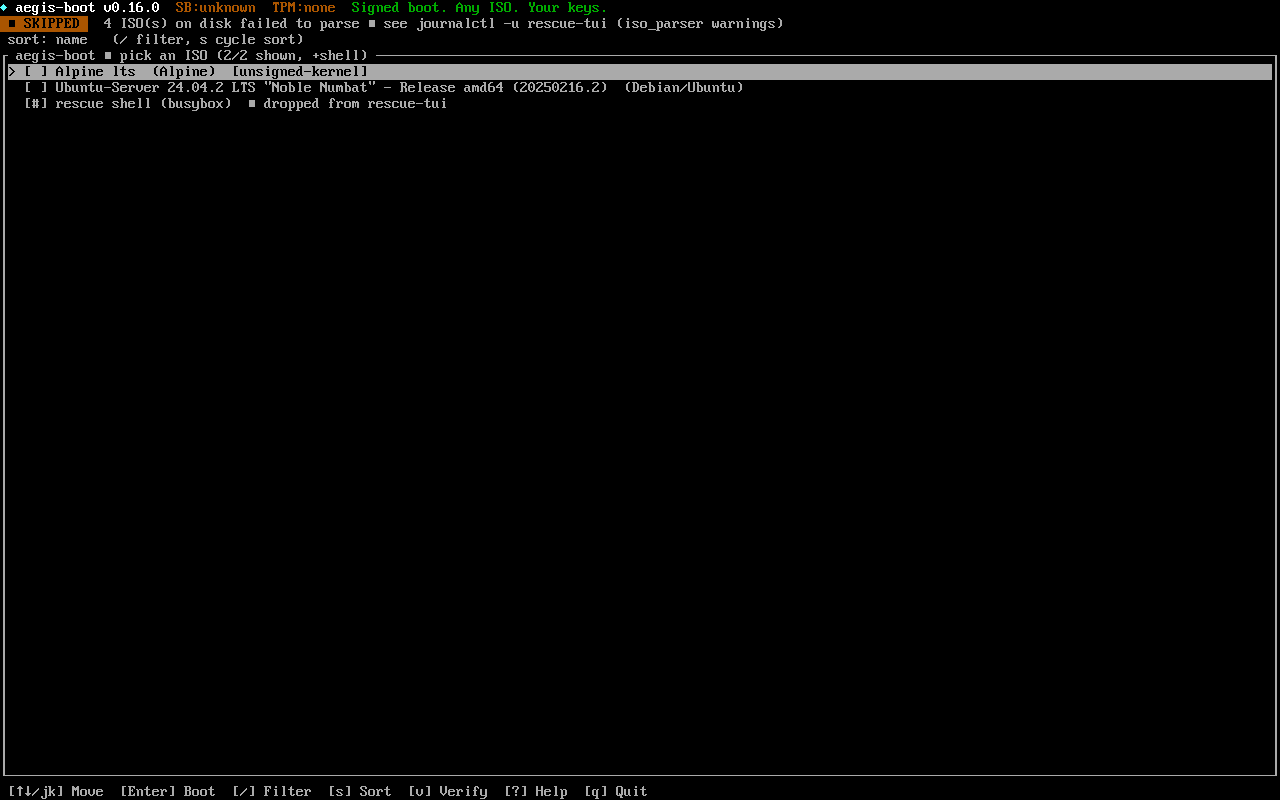
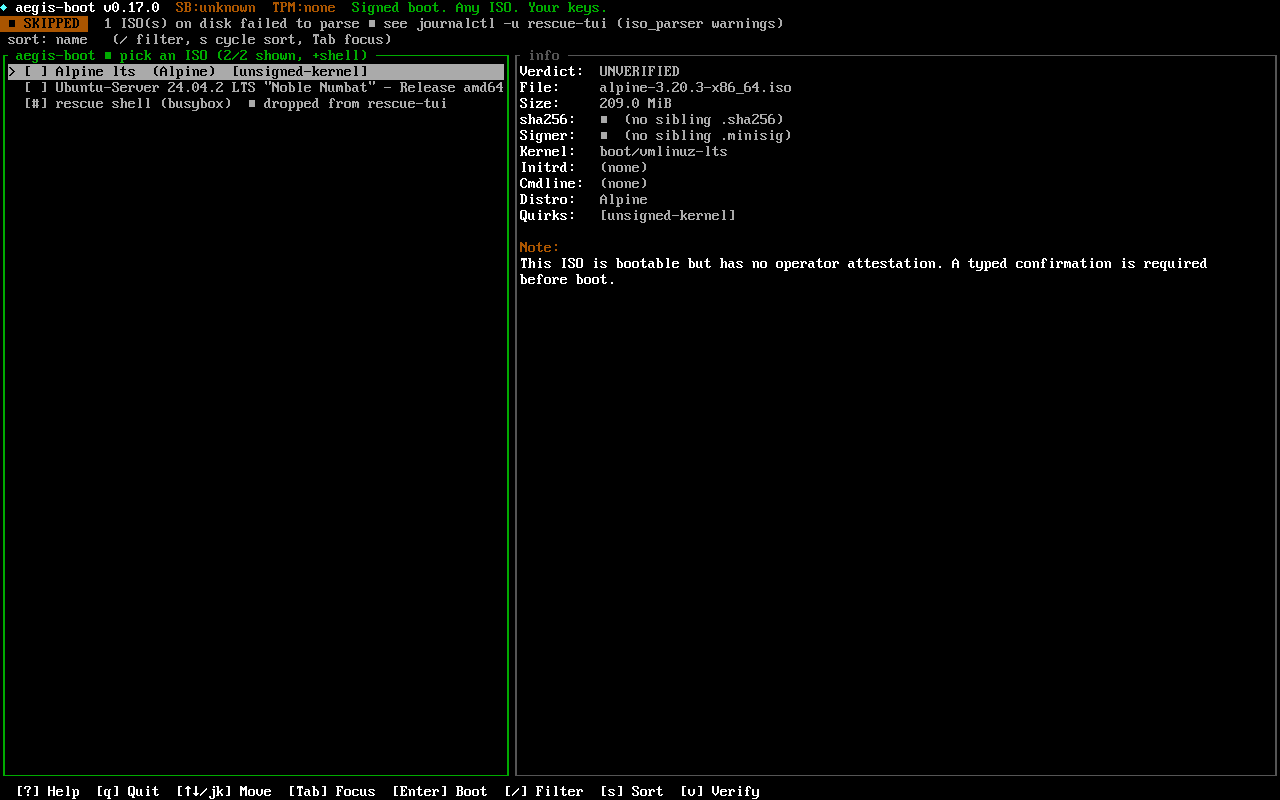
fix(tooling): capture-tui-screenshots.sh — rebuild rescue-tui + initramfs (closes #478 regression)
The capture script silently used stale binaries:

1. mkusb.sh expects target/release/rescue-tui to exist but never
   rebuilds it.
2. mkusb.sh calls scripts/build-initramfs.sh implicitly only when
   out/initramfs.cpio.gz is missing. If it exists from a prior run
   (even days old), mkusb reuses it as-is.

The captured PNGs in #625 were therefore from a 2-day-old binary —
missing the entire #458 dual-pane info layout, missing the #623
overcounting fix, etc. Visible in the old screenshots: empty right
half of the screen, "4 ISO(s) failed to parse" instead of 1, no
[Tab] Focus keybinding hint.

Fix: explicit cargo build + build-initramfs.sh in the capture script
prelude. Both are deterministic under SOURCE_DATE_EPOCH so on an
unchanged tree this adds <2s. Also bumps the post-kernel grace from
8s → 20s after observing the 8s timing flake one PNG out of seven
on a slower run.

Refreshes all 7 PNGs in docs/screenshots/ from the current main
(commits afb3703 + 55fbd27 confirmed via fresh capture):

  - 01-list-default       — list + populated info pane
  - 02-list-sort-cycled   — sort: size↓ + Ubuntu metadata
  - 03-confirm            — full Confirm kexec view incl. installer warning
  - 04-help               — help overlay rendered over dual-pane base
  - 05-filter-empty       — FILTER mode, info pane intact
  - 06-filter-typed       — narrowed list with metadata
  - 07-second-iso-selected — Alpine selected, info pane updated

diff --git a/docs/screenshots/README.md b/docs/screenshots/README.md
@@ -61,17 +61,17 @@ Install `aha`: `sudo apt install aha` (or `brew install aha` on macOS).
 
 PNGs are produced by booting the aegis-boot stick image under
 QEMU+OVMF SecureBoot, driving rescue-tui via QMP `send-key`, and
-dumping the VNC framebuffer. Each PNG ~6-15 KB.
+dumping the VNC framebuffer. Each PNG ~11-18 KB.
 
 | Slug | What it shows |
 | ---- | ------------- |
-| `01-list-default` | Initial list view, default sort: name. |
-| `02-list-sort-cycled` | After `s` — sort cycled to size↓. |
-| `03-confirm` | Confirm-kexec view for the first ISO (GRAY verdict for unsigned). |
-| `04-help` | `?` help overlay — full keybindings reference. |
-| `05-filter-empty` | After `/` — filter input opened, list still full. |
+| `01-list-default` | Initial dual-pane view + populated info pane (default sort: name). |
+| `02-list-sort-cycled` | After `s` — sort cycles to size↓; list reorders, info pane follows. |
+| `03-confirm` | Confirm-kexec view; UNVERIFIED verdict + installer disk-erase warning. |
+| `04-help` | `?` help overlay rendered over the dual-pane base. |
+| `05-filter-empty` | After `/` — filter input opened, info pane intact. |
 | `06-filter-typed` | After typing `ub` — list narrowed to "Ubuntu" matches. |
-| `07-second-iso-selected` | After `↓` — second ISO highlighted. |
+| `07-second-iso-selected` | After `↓` — second ISO highlighted, info pane updated. |
 
 See `scripts/capture-tui-screenshots.sh` for the full pipeline +
 `docs/screenshots/README.md` for the per-scenario details.
